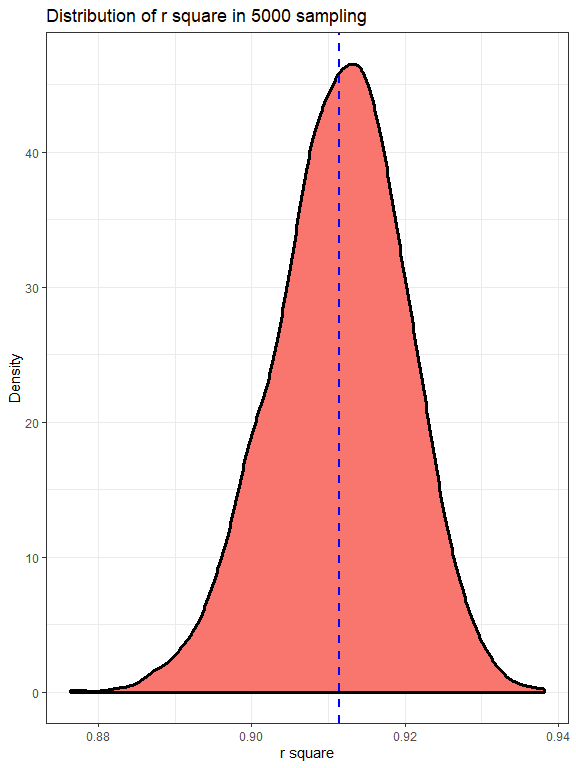
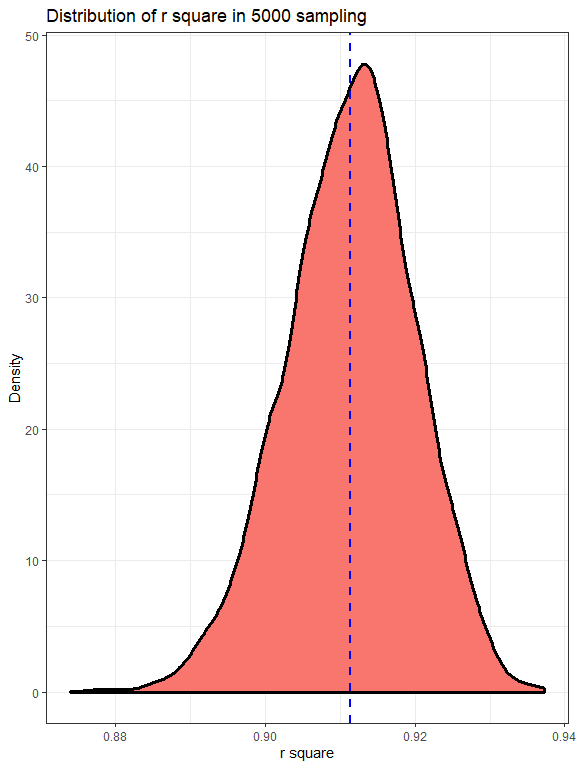
Description for problem 1

diff --git a/p8105_hw6_jg4197.md b/p8105_hw6_jg4197.md
@@ -21,14 +21,37 @@ child_weight <- read_csv("./data_for_hw6/birthweight.csv") %>%
          pnumlbw = factor(pnumlbw),
          pnumsga = factor(pnumsga),
          smoken = factor(smoken))
-  
+child_weight
+```
+
+    ## # A tibble: 4,342 x 20
+    ##    babysex bhead blength   bwt delwt fincome frace gaweeks malform menarche
+    ##    <fct>   <dbl>   <dbl> <dbl> <dbl>   <dbl> <fct>   <dbl> <fct>      <dbl>
+    ##  1 female     34      51  3629   177      35 white    39.9 absent        13
+    ##  2 male       34      48  3062   156      65 black    25.9 absent        14
+    ##  3 female     36      50  3345   148      85 white    39.9 absent        12
+    ##  4 male       34      52  3062   157      55 white    40   absent        14
+    ##  5 female     34      52  3374   156       5 white    41.6 absent        13
+    ##  6 male       33      52  3374   129      55 white    40.7 absent        12
+    ##  7 female     33      46  2523   126      96 black    40.3 absent        14
+    ##  8 female     33      49  2778   140       5 white    37.4 absent        12
+    ##  9 male       36      52  3515   146      85 white    40.3 absent        11
+    ## 10 male       33      50  3459   169      75 black    40.7 absent        12
+    ## # ... with 4,332 more rows, and 10 more variables: mheight <dbl>,
+    ## #   momage <dbl>, mrace <fct>, parity <fct>, pnumlbw <fct>, pnumsga <fct>,
+    ## #   ppbmi <dbl>, ppwt <dbl>, smoken <fct>, wtgain <dbl>
+
+``` r
 ## propose self-regression model for birthweight
-# interested in mother's weight at delivery and presence of malformation
+# interested in circumference, mother's weight at delivery and presence of malformation
 child_self <- child_weight %>% 
-  select(bwt, delwt, malform)
+  select(bwt, bhead, delwt, malform)
 
-self_model <- child_self %>% lm(bwt ~ delwt + malform, data = .)
+self_model <- child_self %>% lm(bwt ~ bhead + delwt + malform, data = .)
 
+## reason: circumference of the baby's head is directly related with the baby weight confirmed by many research providing mathematical proof. mother's delivery weight can also affect baby' weight since the weight of mother can be seen whether the nutrition provided by mother during pregnancy is adequate for baby's growing. The presence of malformation is similar since the scarce nutrition to babies can lead to baby's low weight.
+
+# add residuals and predicted values
 child_self <- child_self %>% 
   add_predictions(self_model) %>% 
   add_residuals(self_model)
@@ -54,7 +77,7 @@ cv_df <- crossv_mc(child_weight, 100) %>%
 
 
 cv_df <- cv_df %>% 
-  mutate(self_model = map(train, ~lm(bwt ~ delwt + malform, data = .x)), 
+  mutate(self_model = map(train, ~lm(bwt ~ bhead + delwt + mrace, data = .x)), 
          comp1_model = map(train, ~lm(bwt ~ blength + gaweeks, data = .x)),
          comp2_model = map(train, ~lm(bwt ~ bhead + blength + babysex + bhead * blength + bhead * babysex + blength * babysex + bhead * blength * babysex, data = .x)))%>% 
   mutate(rmse_self = map2_dbl(self_model, test, ~rmse(model = .x, data = .y)),
@@ -72,7 +95,7 @@ cv_df %>%
   ) %>% 
   mutate(model = fct_inorder(model)) %>% 
   ggplot(aes(x = model, y = rmse)) + geom_violin(aes(fill = model), alpha = .7) +
-  scale_x_discrete(labels = c("mother's weight + malform", "length + gestation", "head + length + sex")) +
+  scale_x_discrete(labels = c("head + mother's weight + malform", "length + gestation", "head + length + sex")) +
   labs(title = "Comparisons on RMSE between three models",
        x = "Type of model",
        y = "RMSE") +
@@ -80,6 +103,11 @@ cv_df %>%
 ```
 
 ![](p8105_hw6_jg4197_files/figure-gfm/unnamed-chunk-1-1.png)<!-- -->
+
+According to the violin plot, we can see the best among three is the
+*bwt \~ bhead + blength + babysex + bhead \* blength + bhead \* babysex
++ blength \* babysex + bhead \* blength \* babyse* model which consider
+the interaction of the variables
 
 ## distribution of two estimates
 
@@ -96,39 +124,8 @@ weather_df =
     tmax = tmax / 10) %>%
   select(name, id, everything())
 
-## simple linear regression model
-slr <- weather_df %>% lm(tmax ~ tmin, data = .)
+set.seed(1)
 
-## r square
-r_square <- slr %>% broom::glance() %>% .[[1]]
-r_square
-```
-
-    ## [1] 0.9115425
-
-``` r
-## log(beta0_hat, beta1_hat)
-beta0_hat <- slr %>% broom::tidy() %>% .[[1,2]]
-beta0_hat
-```
-
-    ## [1] 7.208502
-
-``` r
-beta1_hat <- slr %>% broom::tidy() %>% .[[2,2]]
-beta1_hat
-```
-
-    ## [1] 1.039241
-
-``` r
-log_betahat <- log(beta0_hat*beta1_hat)
-log_betahat
-```
-
-    ## [1] 2.013752
-
-``` r
 ## Do bootstrap and show distribution
 
 r_square <- weather_df %>%  
